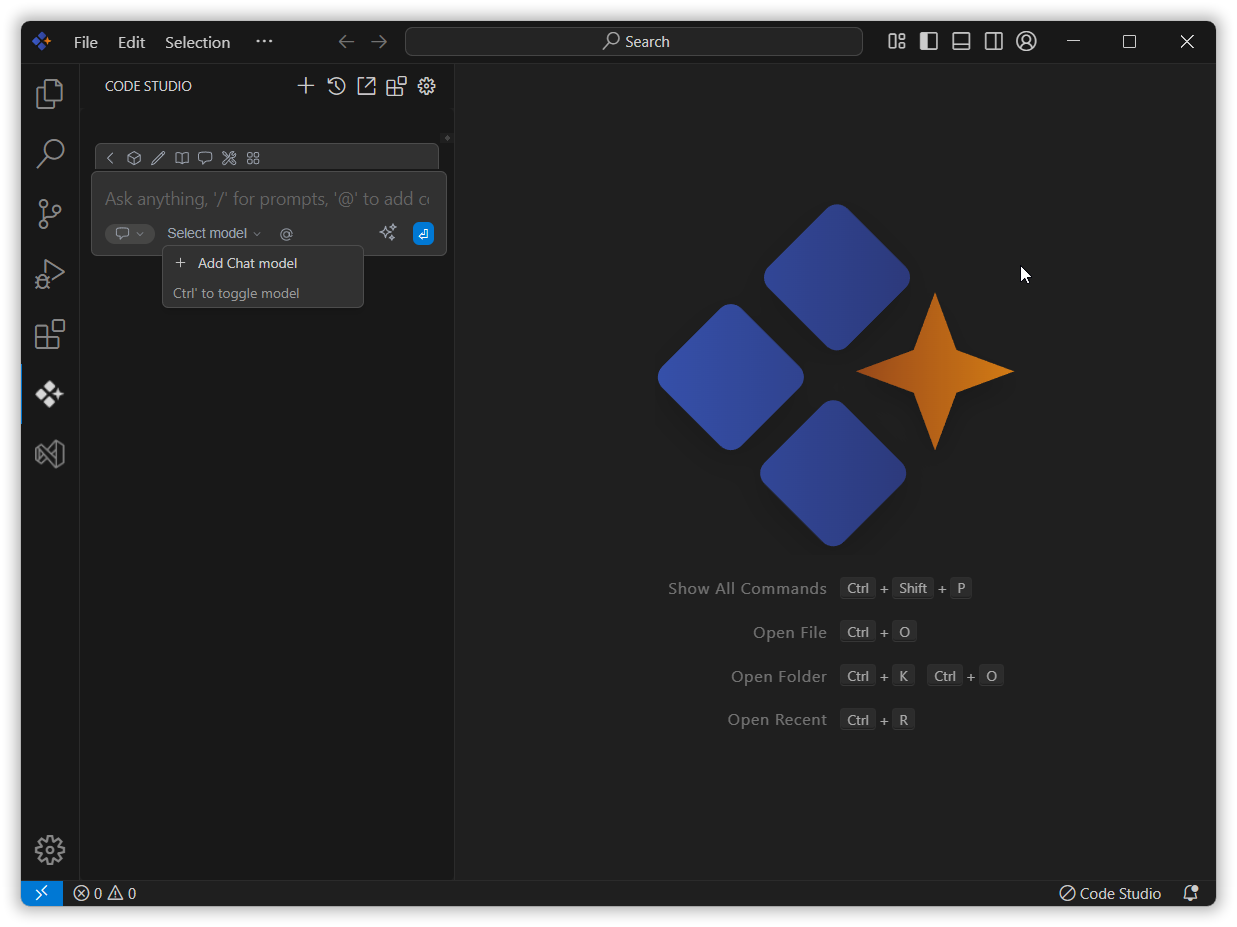
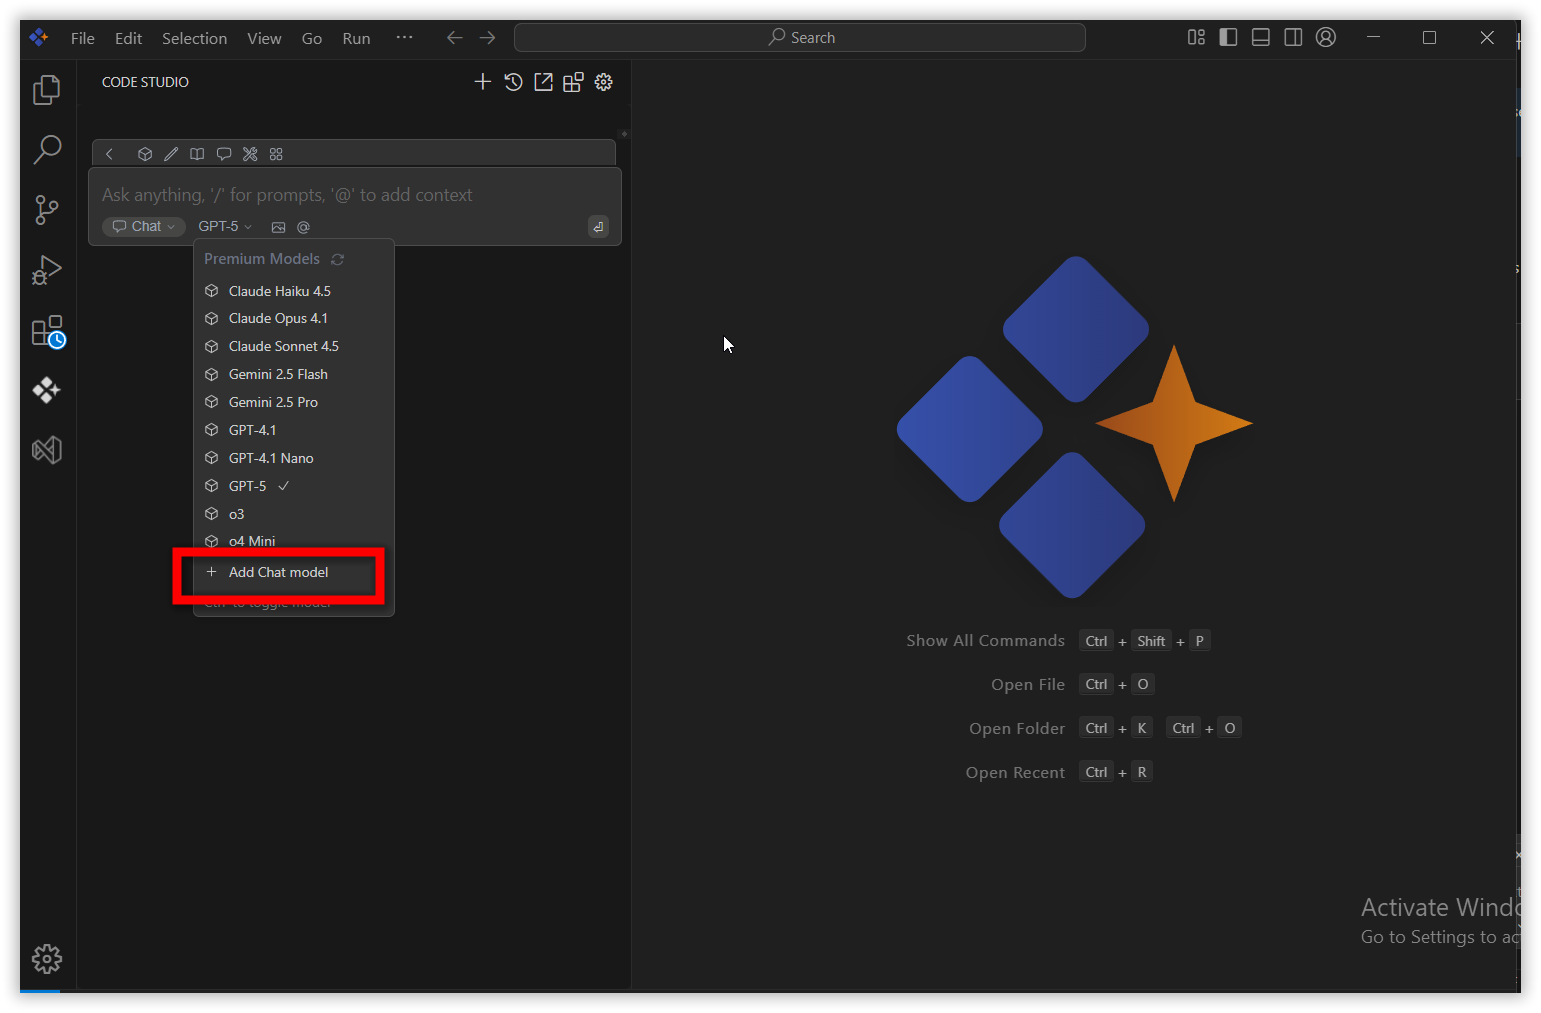
images changes added

diff --git a/code-studio/get-started/signin.md b/code-studio/get-started/signin.md
@@ -2,7 +2,7 @@
 title: Signing in with Syncfusion Code Studio
 description: Learn how to sign in to Syncfusion Code Studio to access powerful enterprise AI models for advanced code generation, analysis, and developer assistance.
 platform: syncfusion-code-studio
-keywords: signin, login, authentication, syncfusion, code-studio, enterprise models, getting started
+keywords: signin, login, authentication, syncfusion, code-studio, premium models, getting started
 ---
 
 # Code Studio Signing In
@@ -15,7 +15,7 @@ Signing in connects you to powerful enterprise AI models for advanced code gener
 After installing Code Studio, you’ll land on a welcome page where you can:
 - **Sign Up** to create a new account
 - **Log In** if you already have an account
-- **Skip & Continue** to use Code Studio purely as a code editor without using the enterprise models. You may also connect your own local models by supplying your own API key (**BYOK**).
+- **Skip & Continue** to use Code Studio purely as a code editor without using the premium models. You may also connect your own local models by supplying your own API key (**BYOK**).
 
 <img src="./getting-started-image/sign0.png" alt="SignIn" />
 
@@ -44,9 +44,9 @@ After successful authentication, you’ll see a confirmation screen.
 
 <img src="./getting-started-image/sign4.png" alt="SignIn" />
 
-### Step 5: Access Enterprise Models
+### Step 5: Access Premium Models
 You are now signed in. Your account info will be visible in Code Studio.
-The chat panel will display the available **Enterprise Models** ready for you to use on your coding projects.
+The chat panel will display the available **Premium Models** ready for you to use on your coding projects.
 
 
 <img src="./getting-started-image/enterprise.png" alt="SignIn" />
@@ -60,6 +60,6 @@ If you skip the sign-in, you can still hook up your own AI model by providing an
 <img src="./getting-started-image/signaddmodel.png" alt="SignIn" />
 
 At any time, click the **Login** or **Sign Up** buttons in the top-right corner of the Code Studio window to:
-- Switch to enterprise models
+- Switch to premium models
 - View or update your account settings
 <img src="./getting-started-image/sign1.png" alt="SignIn" />
